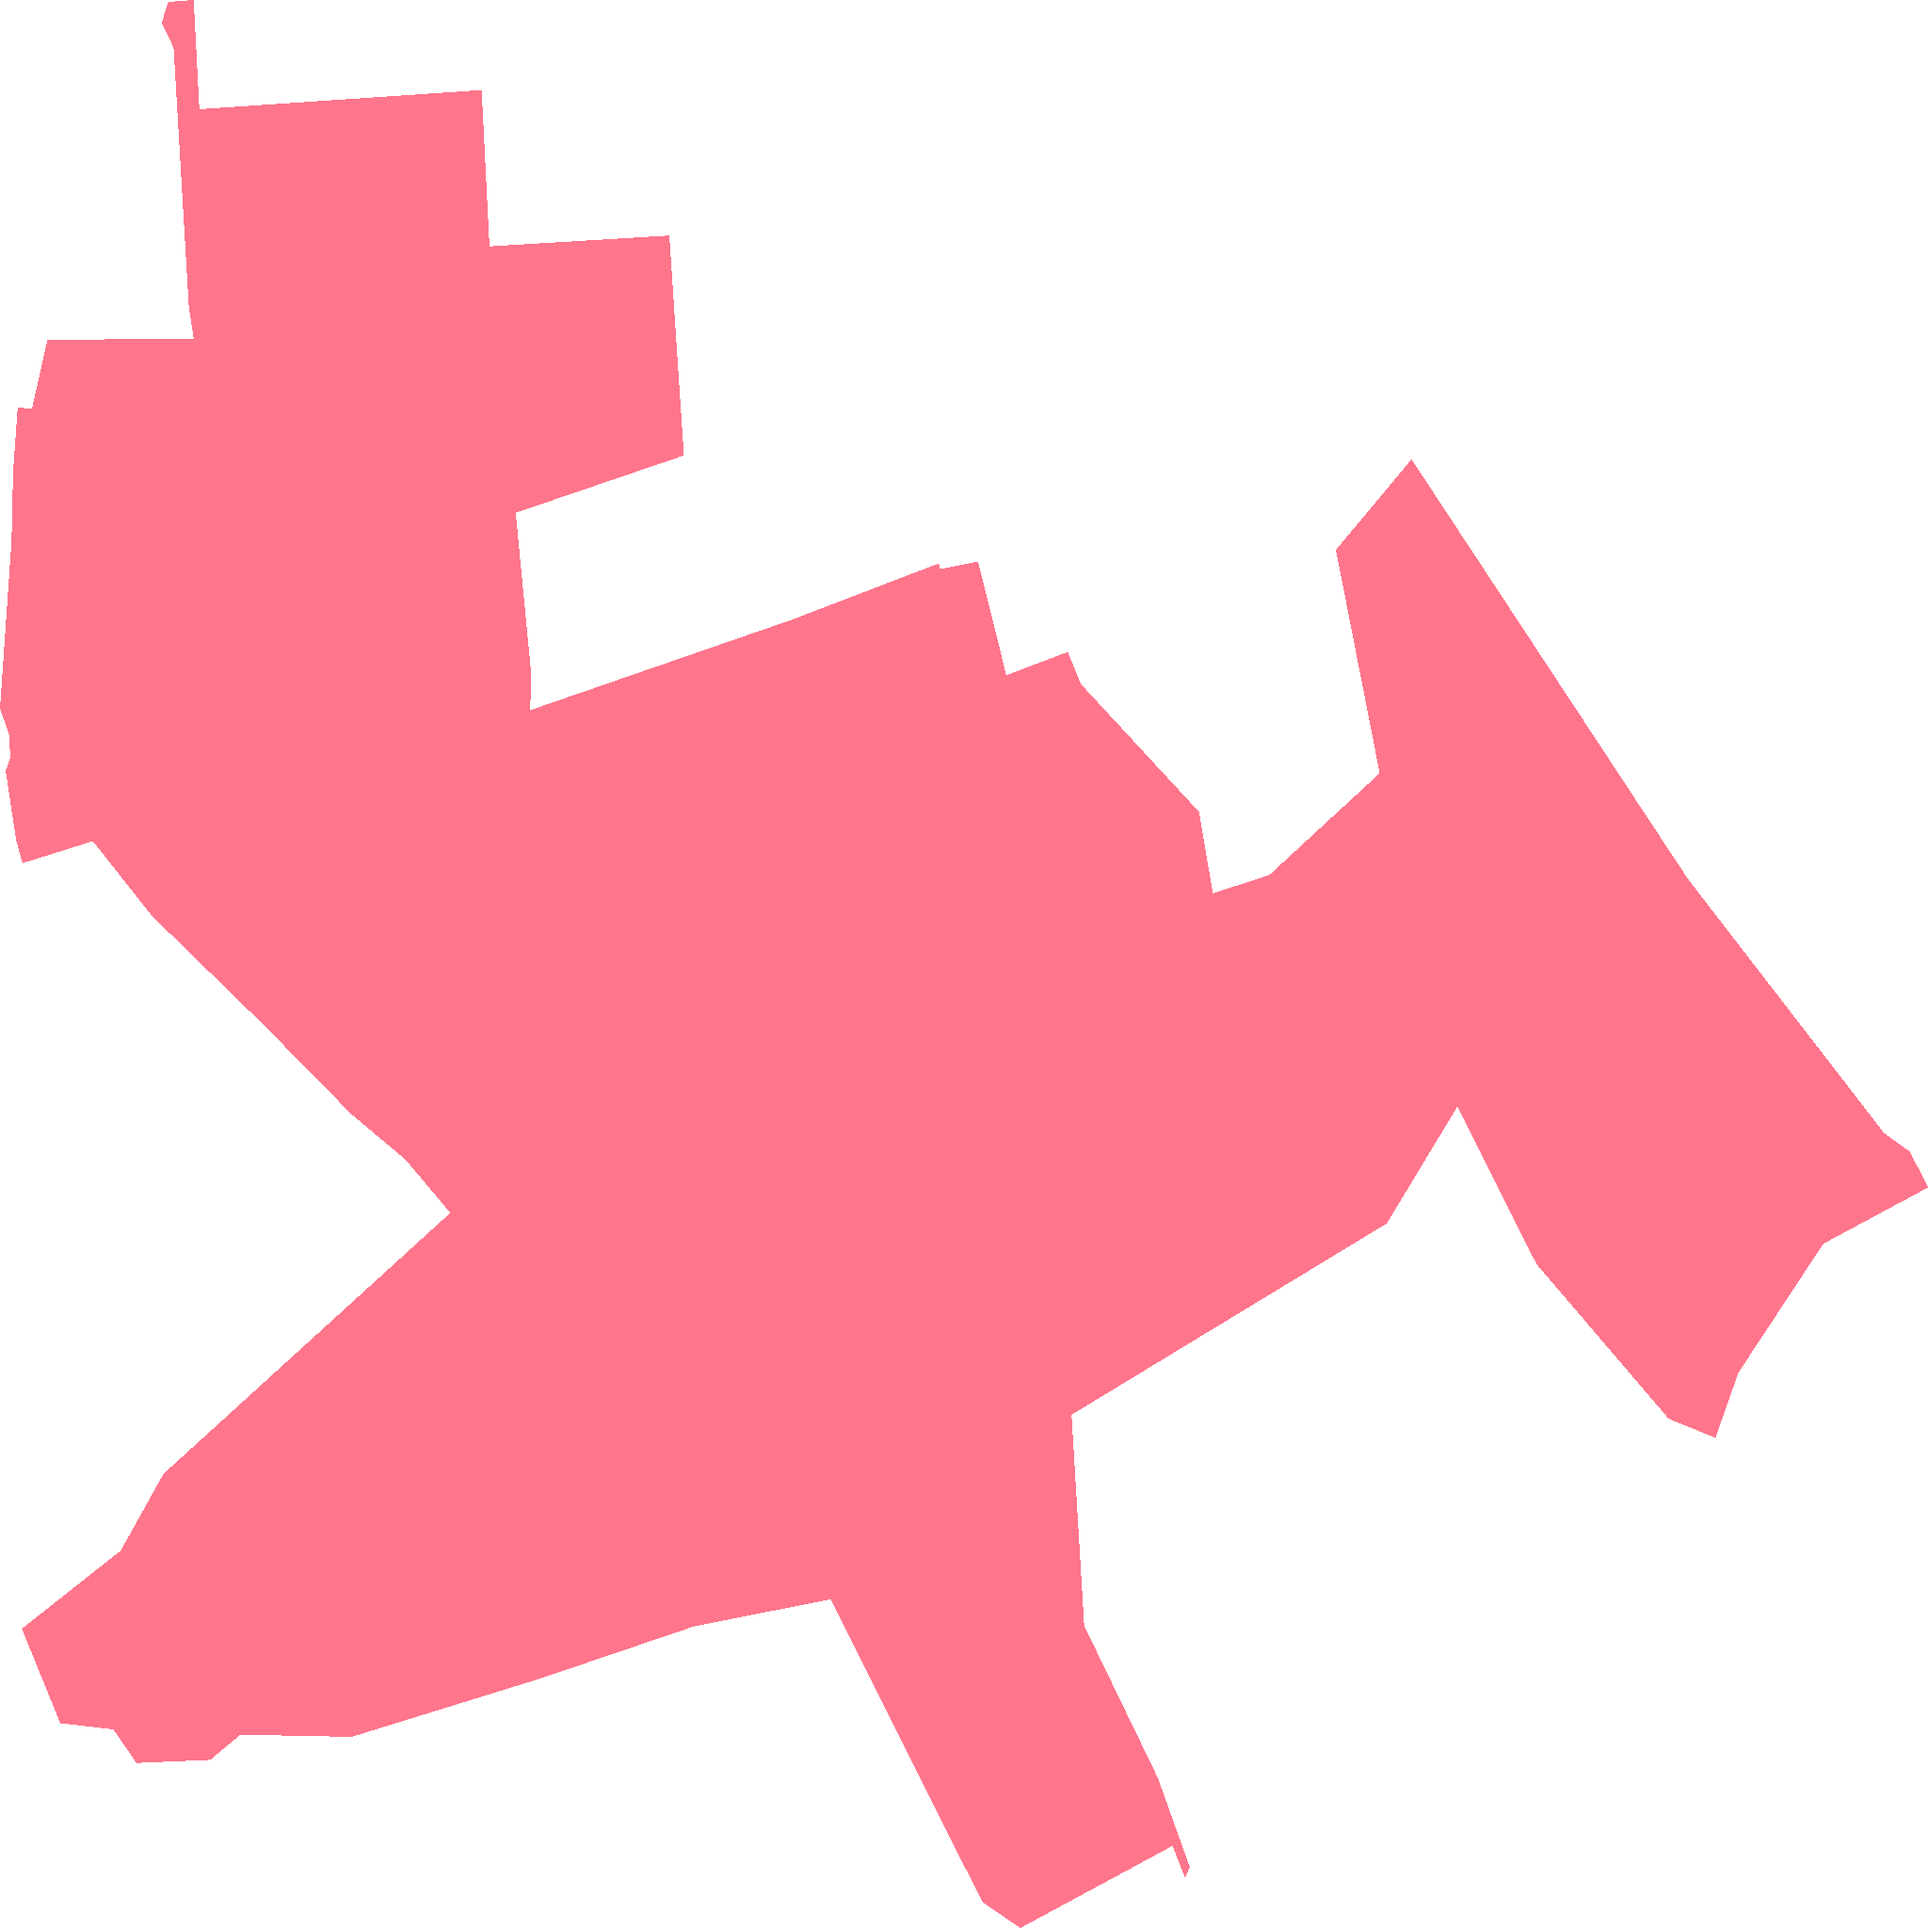
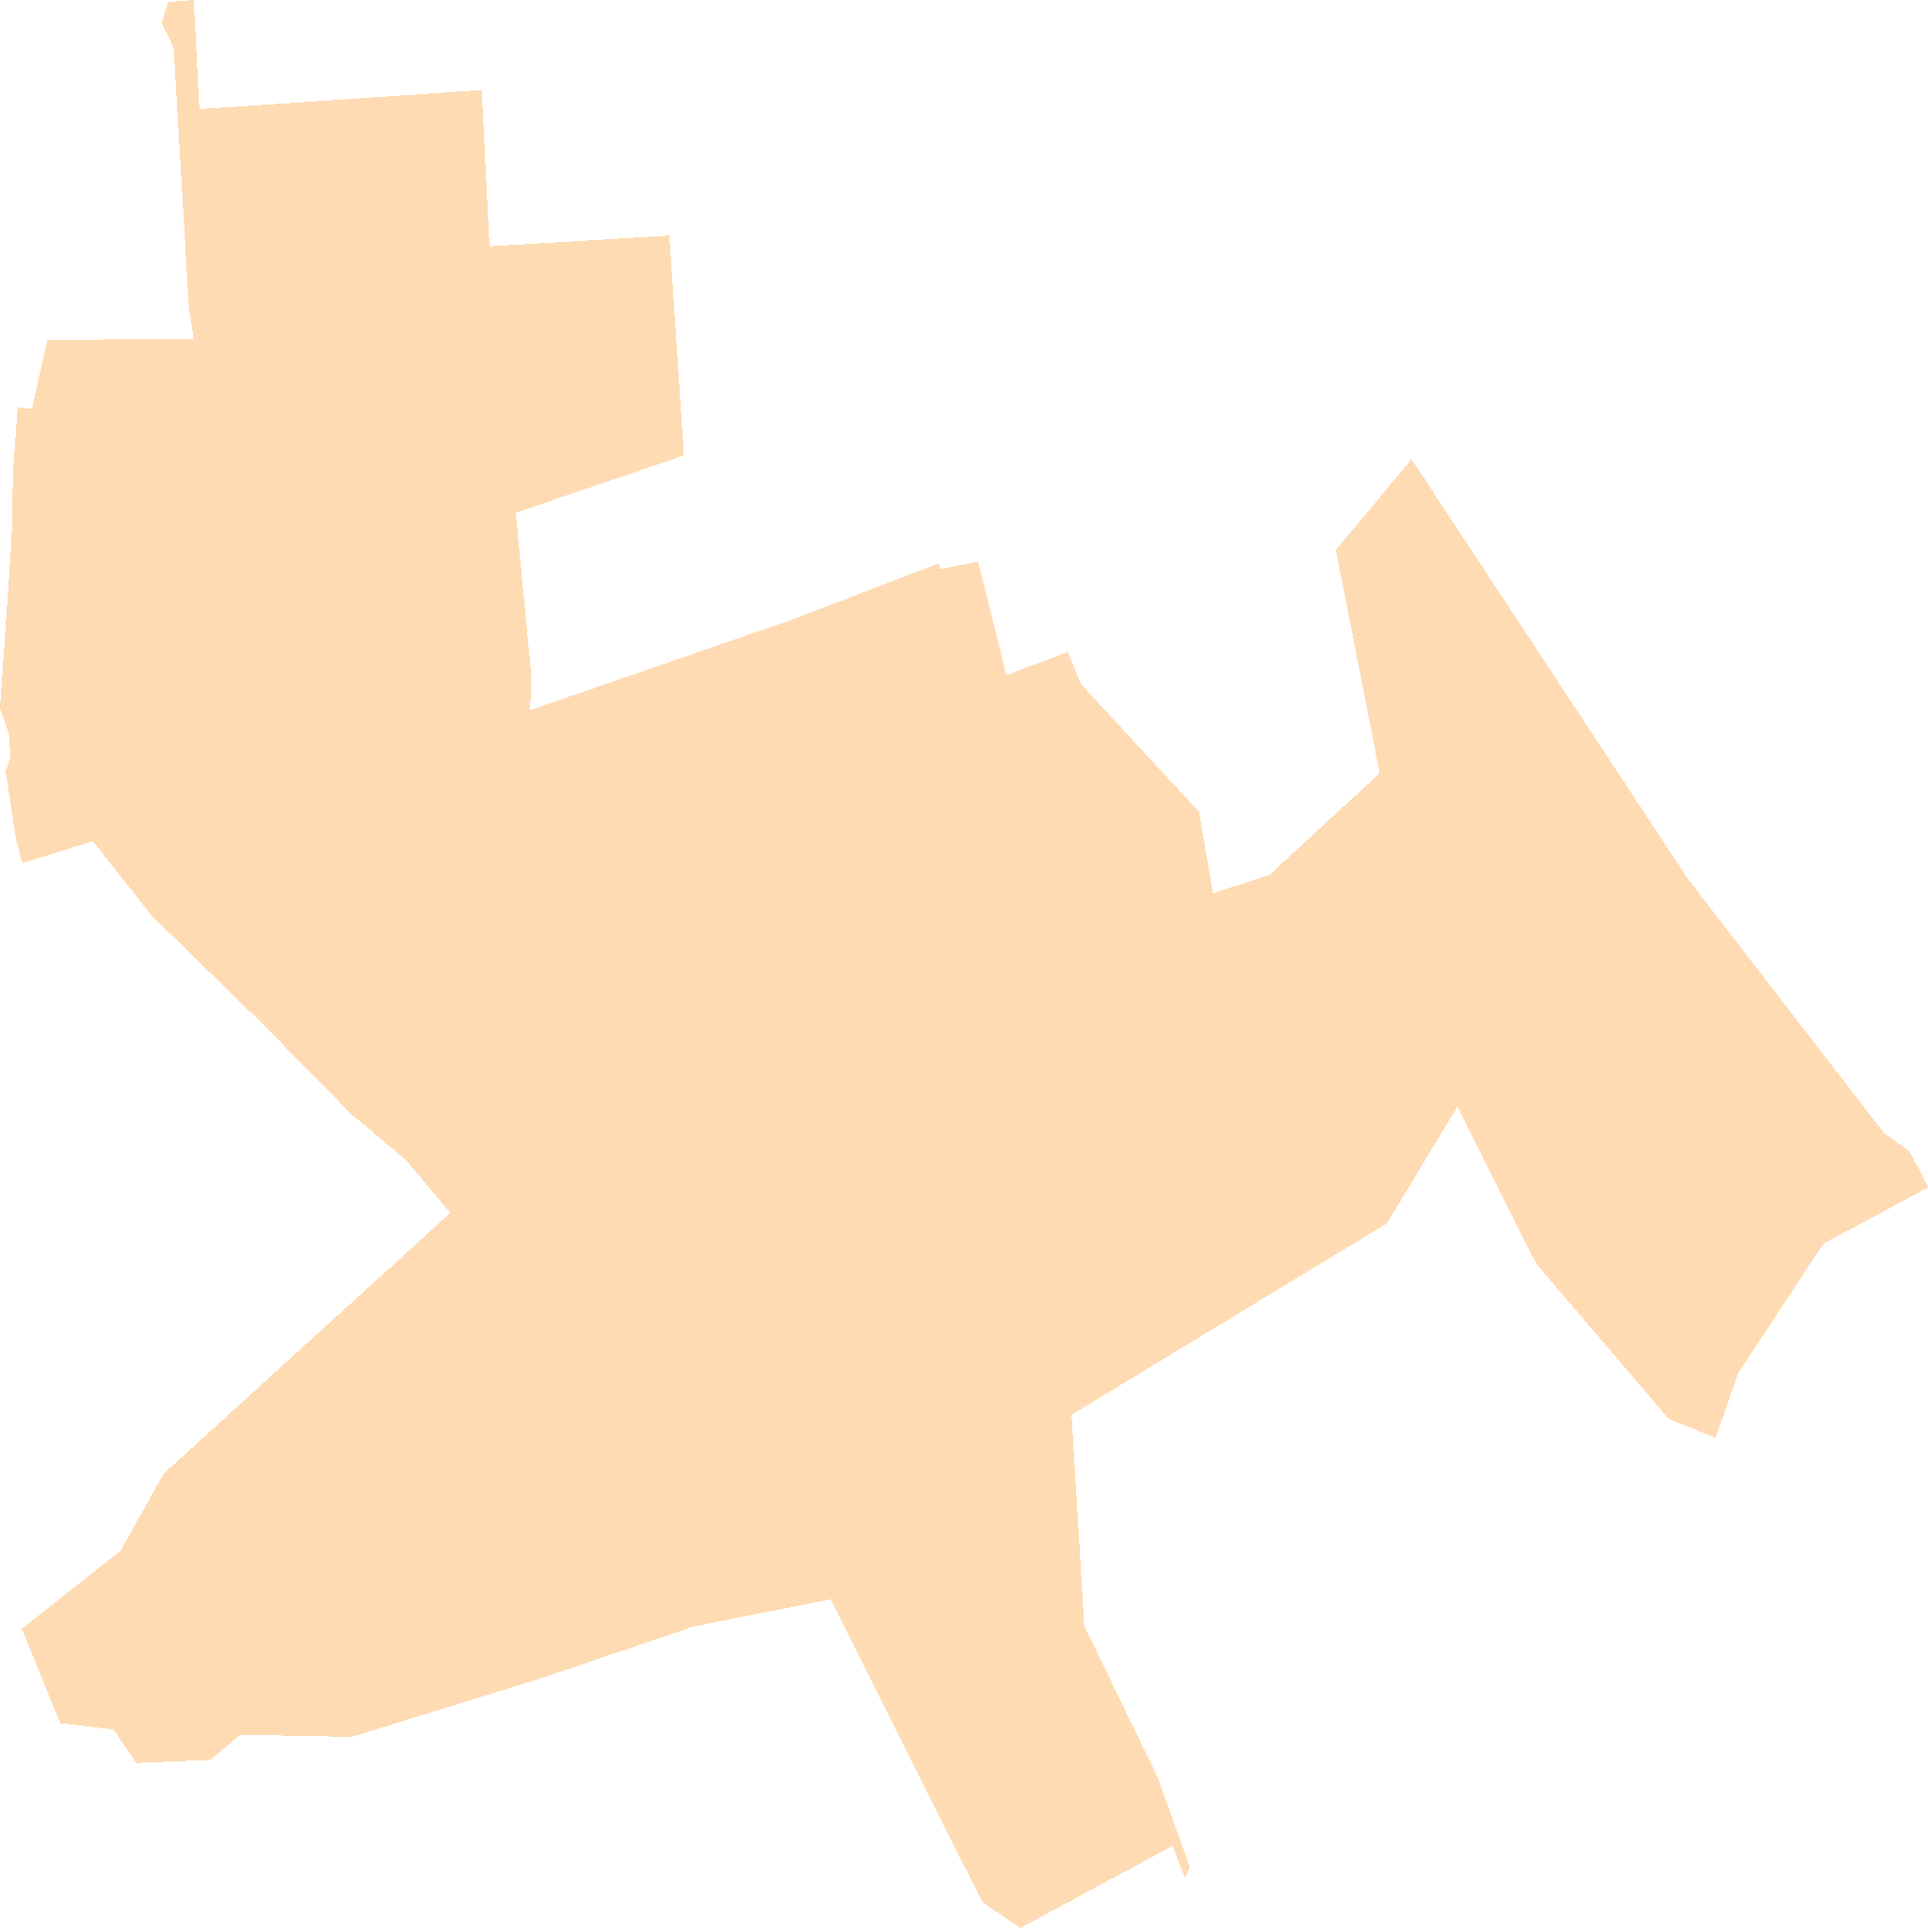
Karte sp_1953

diff --git a/sp_1953.html b/sp_1953.html
@@ -60,7 +60,7 @@
         }
         .custom-control2 {
             position: absolute;
-            bottom: -320px;
+            top: 110px;
             left: 0px;
             background: white;
             padding: 5px;
@@ -77,24 +77,6 @@
         .custom-control:hover, .custom-control2:hover {
             background-color: #f0f0f0 !important;
         }
-        .leaflet-control-geocoder-icon {
-            background-color: white !important;
-            color: grey !important;
-            border: none !important;
-            width: 20px;
-            height: 20px;
-            display: flex;
-            justify-content: center;
-            align-items: center;
-            font-size: 15px;
-            font-family: 'Montserrat', sans-serif;
-            box-shadow: 0 1px 3px rgba(0, 0, 0, 0.3);
-            border-radius: 2px;
-            cursor: pointer;
-        }
-        .leaflet-control-geocoder-icon:hover {
-            background-color: #f0f0f0 !important;
-        }
         .custom-marker {
             width: 15px;
             height: 15px;
@@ -104,8 +86,8 @@
         }
         #legend {
             position: absolute;
-            bottom: 80px;
-            left: 55px;
+            top: 160px;
+            left: 10px;
             display: none;
             z-index: 1000;
             background: white;
@@ -128,8 +110,9 @@
 <body>
     <div id="map"></div>
     <div id="legend">
-        <div><span style="display:inline-block; width:20px; height:10px; background:#FF7F00; margin-right:5px;"></span>Ausbauphase 1: Ausbau bei ausreichender Nachfrage</div>
+        <div><span style="display:inline-block; width:20px; height:10px; background:#FF7F00; margin-right:5px;"></span>Ausbauphase 1: Glasfasernetz vorhanden oder geplant</div>
         <div><span style="display:inline-block;width:20px; height:10px; background:#00143C; margin-right:5px;"></span>Ausbauphase 2: Interessenbekundung möglich</div>
+        <div><span style="display:inline-block;width:20px; height:10px; background:#FFC17D; margin-right:5px;"></span>Ausbauphase 3: Gefördertes Ausbaugebiet </div>
     </div>
     <script>
     const bounds = [[50.476700855, 8.282964713], [50.485384885, 8.299169572]];
@@ -166,20 +149,6 @@
         });
         map.addControl(new legendControl());
         const markerLayerGroup = L.layerGroup().addTo(map);
-        const geocoder = L.Control.geocoder({
-            defaultMarkGeocode: false
-        })
-            .on('markgeocode', function (e) {
-                markerLayerGroup.clearLayers();
-                const latlng = e.geocode.center;
-                const customMarker = L.divIcon({
-                    className: 'custom-marker'
-                });
-                const marker = L.marker(latlng, { icon: customMarker });
-                markerLayerGroup.addLayer(marker);
-                map.fitBounds(bounds);
-            })
-            .addTo(map);
     </script>
 </body>
 </html>
